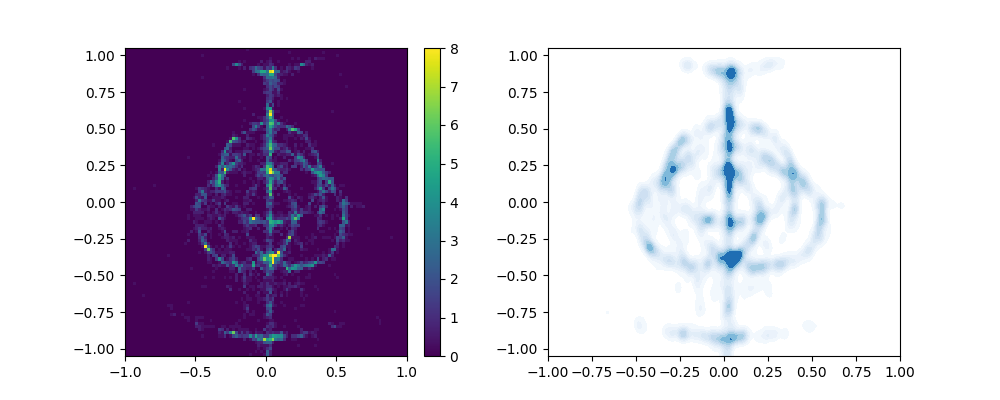
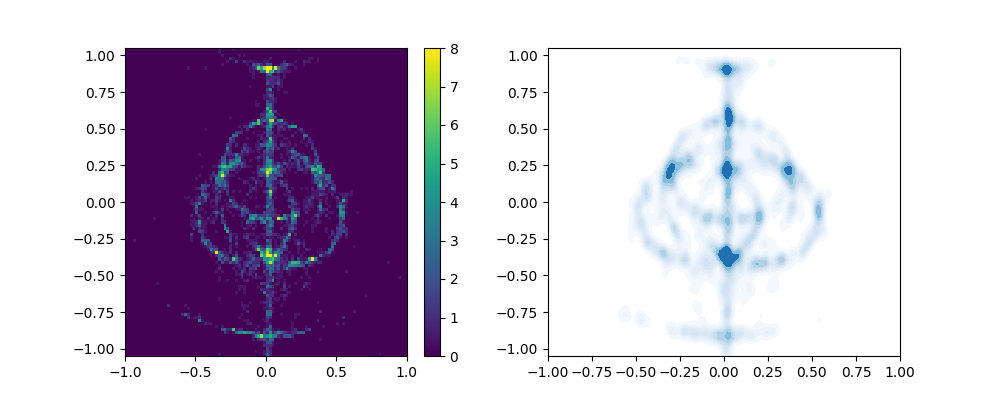
generic commit

diff --git a/scripts/transport/kvae_diffusion.py b/scripts/transport/kvae_diffusion.py
@@ -26,7 +26,7 @@ def get_base_stats(gen, N = 10000):
 def format(n, n_digits = 5):
     try:
         if n > 1e-3:
-            return round(n,4)
+            return round(n,n_digits)
         a = '%E' % n
         str =  a.split('E')[0].rstrip('0').rstrip('.') + 'E' + a.split('E')[1]
         scale = str[-4:]
@@ -436,7 +436,7 @@ class CondTransportKernel(nn.Module):
 
 def cond_kernel_transport(X_mu, Y_mu, Y_eta, Y_mean, Y_var, X_mu_test, Y_eta_test, Y_mu_test, X_mu_val,
                           Y_mean_test, Y_var_test, params, iters=-1, approx=False,mmd_lambda=0, step_num = 1,
-                          reg_lambda=1e-6, grad_cutoff = .0001, n_iter = 125, target_eps = 1, var_eps = .1):
+                          reg_lambda=7e-7, grad_cutoff = .0001, n_iter = 125, target_eps = 1, var_eps = .1):
     transport_params = {'X_mu': X_mu, 'Y_mu': Y_mu, 'Y_eta': Y_eta, 'nugget': 1e-4, 'Y_var': Y_var, 'Y_mean': Y_mean,
                         'fit_kernel_params': deepcopy(params['fit']), 'mmd_kernel_params': deepcopy(params['mmd']),
                         'print_freq': 25, 'learning_rate': .001, 'reg_lambda': reg_lambda, 'var_eps': var_eps,
@@ -450,11 +450,11 @@ def cond_kernel_transport(X_mu, Y_mu, Y_eta, Y_mean, Y_var, X_mu_test, Y_eta_tes
 
 
 def comp_cond_kernel_transport(X_mu, Y_mu, Y_eta, Y_eta_test, X_mu_test, Y_mu_test, X_mu_val, params,
-                               final_eps=1e-2, n_transports=50, reg_lambda=1e-6, n_iter = 150,var_eps = .1):
+                               final_eps=5e-3, n_transports=50, reg_lambda=7e-7, n_iter = 150,var_eps = .1):
     param_keys = ['fit_kernel','Lambda_mean', 'X_mean',  'Lambda_var', 'X_var', 'var_eps']
     models_param_dict = {key: [] for key in param_keys}
     iters = 0
-    noise_shrink_c = np.exp(np.log(final_eps) / ((n_transports - 10)))
+    noise_shrink_c = np.exp(np.log(final_eps) / ((n_transports)))
     models_param_dict['final_eps'] = final_eps
     Y_mean,Y_mean_test,Y_var,Y_var_test = np.zeros(4)
     approx = False
@@ -491,13 +491,8 @@ def comp_cond_kernel_transport(X_mu, Y_mu, Y_eta, Y_eta_test, X_mu_test, Y_mu_te
         iters = model.iters
         target_eps *= noise_shrink_c
 
-        if n_transports - i < 10:
-            target_eps = 0
 
         validation_losses.append(loss_dict['test'][-1])
-        if n_transports - i <= 2:
-            pass
-            #n_iter = 1000
 
     #val_best_idx = min(np.argmin(validation_losses), len(validation_losses)-1)
     for key in param_keys:
@@ -514,8 +509,8 @@ def zero_pad(array):
     return np.concatenate([zero_array, array], axis=1)
 
 
-def train_cond_transport(ref_gen, target_gen, params, N = 4000,  process_funcs=[],final_eps=1e-3,var_eps = .1,
-                         cond_model_trainer=cond_kernel_transport, idx_dict={}, reg_lambda=1e-6, n_transports=100):
+def train_cond_transport(ref_gen, target_gen, params, N = 4000,  process_funcs=[],final_eps=5e-3,var_eps = .1,
+                         cond_model_trainer=cond_kernel_transport, idx_dict={}, reg_lambda=7e-7, n_transports=100):
     ref_sample = ref_gen(N)
     target_sample = target_gen(N)
 
@@ -551,7 +546,7 @@ def train_cond_transport(ref_gen, target_gen, params, N = 4000,  process_funcs=[
     return trained_models
 
 
-def MC_cond_sample(target_gen, slice_val, cond_idx, N = 5000, eps = 1e-3):
+def MC_cond_sample(target_gen, slice_val, cond_idx, N = 5000, eps = 5e-3):
     cond_sample = np.empty([0] + list(target_gen(5).shape[1:]))
     while len(cond_sample) < N:
         target_sample = target_gen(10 * N)
@@ -582,7 +577,7 @@ def compositional_gen(trained_models, ref_sample, target_sample, idx_dict, plot_
 
 def conditional_transport_exp(ref_gen, target_gen, N=4000, vmax=None, exp_name='exp', plt_range=None, bins=70,
                               process_funcs=[], N_plot=0, cond_model_trainer=comp_cond_kernel_transport,
-                              final_eps=1e-2, skip_idx=0, plot_idx=[], n_transports=50, idx_dict={},
+                              final_eps=5e-3, skip_idx=0, plot_idx=[], n_transports=50, idx_dict={},
                               plot_steps = False, reg_lambda = 7e-7, mu = 0, sigma = 1,var_eps = .1):
     save_dir = f'../../data/kernel_transport/{exp_name}'
     try:
@@ -662,7 +657,7 @@ def conditional_transport_exp(ref_gen, target_gen, N=4000, vmax=None, exp_name='
 
 def two_d_exp(ref_gen, target_gen, N=4000, plt_range=None, process_funcs=[], normal = True,
               slice_range=None, N_plot=4000, slice_vals=[], bins=70, exp_name='exp', skip_idx=1,
-              vmax=None, n_transports=60, reg_lambda=7e-7, final_eps=3e-3, plot_steps = False, var_eps = 1/3):
+              vmax=None, n_transports=60, reg_lambda=7e-7, final_eps=1e-3, plot_steps = False, var_eps = 1/3):
     save_dir = f'../../data/kernel_transport/{exp_name}'
     try:
         os.mkdir(save_dir)
@@ -843,7 +838,7 @@ def vl_exp(N=4000, Yd=18, normal=True, exp_name='kvl_exp', n_transports=60,  N_p
 
 def run():
     #arget_gen = sample_swiss_roll()
-    two_d_exp(ref_gen=sample_normal, target_gen=sample_elden_ring , N=10000, exp_name='exp', n_transports=40,
+    two_d_exp(ref_gen=sample_normal, target_gen=sample_elden_ring , N=10000, exp_name='exp', n_transports=50,
               slice_vals=[], plt_range=[[-1,1], [-1.05, 1.05]], slice_range=[-1.5, 1.5], vmax=8,
               skip_idx=1, N_plot=5000, plot_steps=False, normal=True, bins=100, var_eps=1/9)
 

diff --git a/scripts/transport/fit_kernel.py b/scripts/transport/fit_kernel.py
@@ -15,7 +15,7 @@ warnings.filterwarnings("ignore")
 def format(n, n_digits = 5):
     try:
         if n > 1e-3:
-            return round(n,4)
+            return round(n,n_digits)
         a = '%E' % n
         str =  a.split('E')[0].rstrip('0').rstrip('.') + 'E' + a.split('E')[1]
         scale = str[-4:]
